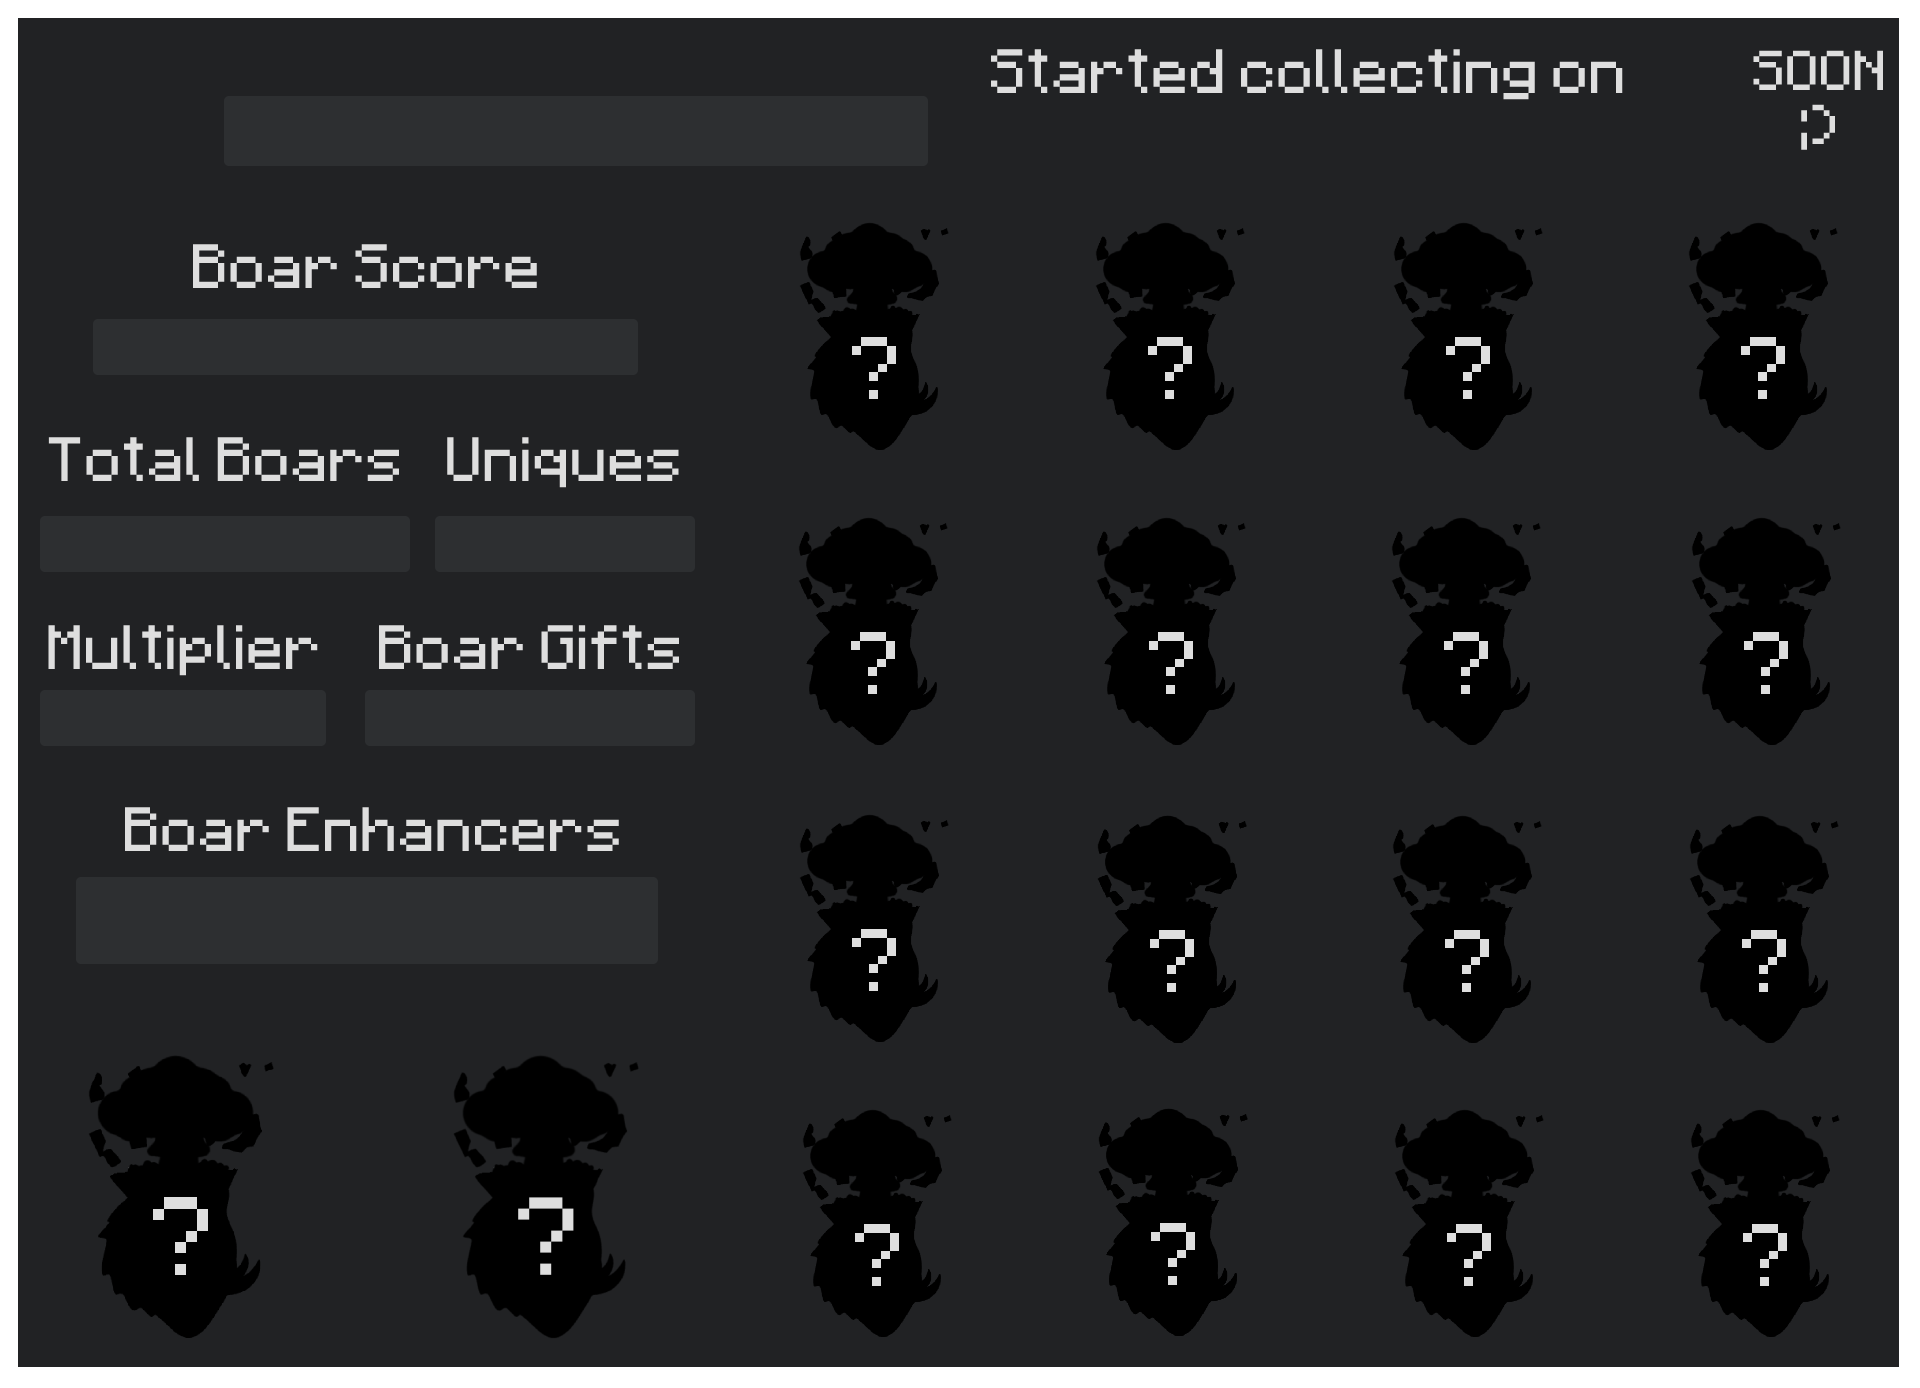
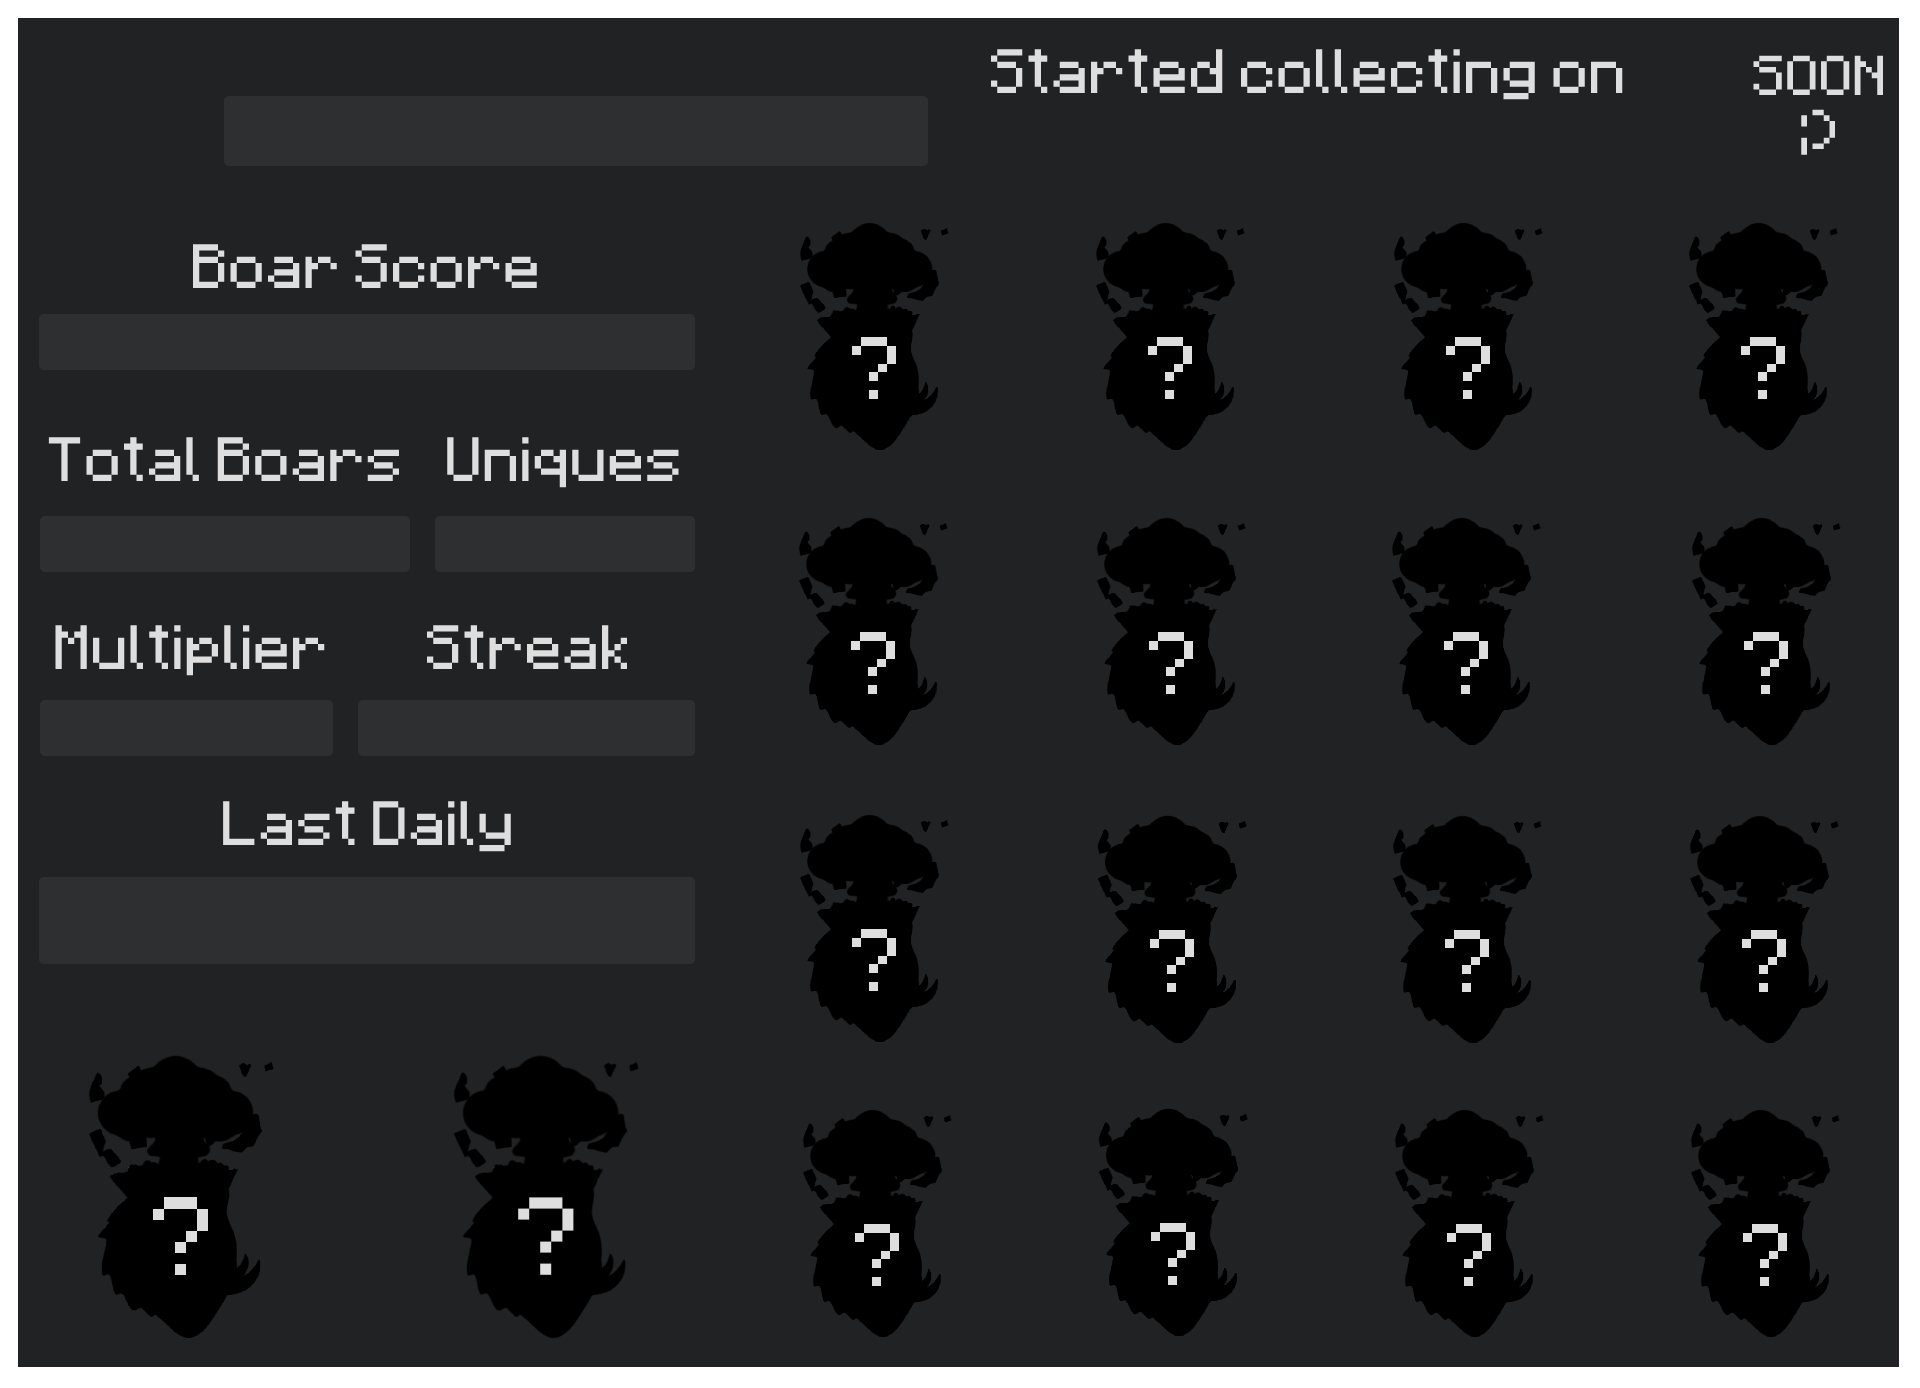
More button foundation, changed base collection image

diff --git a/src/commands/collection.ts b/src/commands/collection.ts
@@ -23,6 +23,7 @@ import {handleError, sendDebug} from '../supporting_files/LogDebug';
 import {getConfigFile} from '../supporting_files/DataHandlers';
 import {drawImageCompact, drawRect, drawText} from '../supporting_files/CanvasFunctions';
 import {finishImage} from '../supporting_files/command_specific/CollectionFunctions';
+import moment from 'moment';
 
 //***************************************
 
@@ -80,7 +81,8 @@ async function execute(interaction: ChatInputCommandInteraction) {
             const userTotal = boarUser.totalBoars;
             const userUniques = Object.keys(boarUser.boarCollection).length;
             const userMultiplier = boarUser.powerups.multiplier;
-            const userGifts = boarUser.powerups.gifts;
+            const userStreak = boarUser.boarStreak;
+            const userLastDaily = boarUser.lastDaily;
             const userAvatar = userInput.displayAvatarURL({ extension: 'png' });
             const userTag = userInput.username.substring(0, generalNums.usernameLength) + '#' +
                 userInput.discriminator;
@@ -123,7 +125,7 @@ async function execute(interaction: ChatInputCommandInteraction) {
             // Aliases for information stored in config
             const maxScore = nums.maxScore;
             const maxBoars = nums.maxBoars;
-            const maxGifts = nums.maxGifts;
+            const maxStreak = nums.maxStreak;
             const maxMultiplier = 1 / config.raritiesInfo[rarities[rarities.length - 1]].probability;
             let maxUniques = Object.keys(config.boarIDs).length;
 
@@ -133,6 +135,7 @@ async function execute(interaction: ChatInputCommandInteraction) {
 
             // Font info
             const fontName = configStrings.general.fontName;
+            const bigFont = `${generalNums.fontSizes.big}px ${fontName}`;
             const mediumFont = `${generalNums.fontSizes.medium}px ${fontName}`;
             const smallFont = `${generalNums.fontSizes.small_medium}px ${fontName}`;
 
@@ -149,9 +152,10 @@ async function execute(interaction: ChatInputCommandInteraction) {
             const multiString = userMultiplier <= maxMultiplier
                 ? `${userMultiplier.toFixed(2)}x`
                 : `${maxMultiplier.toFixed(2)}x`;
-            const giftString = userGifts <= maxGifts
-                ? userGifts.toLocaleString()
-                : `${maxGifts.toLocaleString()}+`;
+            const streakString = userStreak <= maxStreak
+                ? userStreak.toLocaleString()
+                : `${maxStreak.toLocaleString()}+`;
+            const lastDailyString = moment(userLastDaily).fromNow();
 
             // Gets the day a user first started using the bot
             let firstDate: string;
@@ -165,43 +169,44 @@ async function execute(interaction: ChatInputCommandInteraction) {
             currentBoarArray = boarArray.slice(0, boarsPerPage);
 
             // Creating image
-            const canvas = Canvas.createCanvas(imageSize[0], imageSize[1]);
-            const ctx = canvas.getContext('2d');
+            const mainCanvas = Canvas.createCanvas(imageSize[0], imageSize[1]);
+            const mainCtx = mainCanvas.getContext('2d');
 
             // Draws underlay
-            drawImageCompact(ctx, await Canvas.loadImage(collectionUnderlay), origin, imageSize);
+            drawImageCompact(mainCtx, await Canvas.loadImage(collectionUnderlay), origin, imageSize);
 
             // Draws top bar information
-            drawImageCompact(ctx, await Canvas.loadImage(userAvatar), nums.userAvatarPos, nums.userAvatarSize);
-            drawText(ctx, userTag, nums.userTagPos, mediumFont, 'left', hexColors.font);
-            drawText(ctx, firstDate, nums.datePos, mediumFont, 'left', hexColors.font);
+            drawImageCompact(mainCtx, await Canvas.loadImage(userAvatar), nums.userAvatarPos, nums.userAvatarSize);
+            drawText(mainCtx, userTag, nums.userTagPos, mediumFont, 'left', hexColors.font);
+            drawText(mainCtx, firstDate, nums.datePos, mediumFont, 'left', hexColors.font);
 
             // Draws badge information
             if (boarUser.badges.length === 0)
-                drawText(ctx, collectionStrings.noBadges, nums.noBadgePos, mediumFont, 'left', hexColors.font);
+                drawText(mainCtx, collectionStrings.noBadges, nums.noBadgePos, mediumFont, 'left', hexColors.font);
 
             for (let i=0; i<boarUser.badges.length; i++) {
                 const badgesFolder = configAssets.badges;
                 const badgeXY = [nums.badgeStart + i * nums.badgeSpacing, nums.badgeY];
                 const badgeFile = badgesFolder + config.badgeIDs[boarUser.badges[i]].file;
 
-                drawImageCompact(ctx, await Canvas.loadImage(badgeFile), badgeXY, nums.badgeSize);
+                drawImageCompact(mainCtx, await Canvas.loadImage(badgeFile), badgeXY, nums.badgeSize);
             }
 
             // Draws stats information
-            drawText(ctx, scoreString, nums.scorePos, smallFont, 'center', hexColors.font);
-            drawText(ctx, totalString, nums.totalPos, smallFont, 'center', hexColors.font);
-            drawText(ctx, uniqueString, nums.uniquePos, smallFont, 'center', hexColors.font);
-            drawText(ctx, multiString, nums.multiPos, smallFont, 'center', hexColors.font);
-            drawText(ctx, giftString, nums.giftPos, smallFont, 'center', hexColors.font);
+            drawText(mainCtx, scoreString, nums.scorePos, smallFont, 'center', hexColors.font);
+            drawText(mainCtx, totalString, nums.totalPos, smallFont, 'center', hexColors.font);
+            drawText(mainCtx, uniqueString, nums.uniquePos, smallFont, 'center', hexColors.font);
+            drawText(mainCtx, multiString, nums.multiPos, smallFont, 'center', hexColors.font);
+            drawText(mainCtx, streakString, nums.streakPos, smallFont, 'center', hexColors.font);
+            drawText(mainCtx, lastDailyString, nums.lastDailyPos, bigFont, 'center', hexColors.font);
 
             // Draws last boar gotten and rarity
             if (boarUser.lastBoar !== '') {
                 const lastBoarDetails = config.boarIDs[boarUser.lastBoar];
                 const boarFile = boarsFolder + lastBoarDetails.file
 
-                drawImageCompact(ctx, await Canvas.loadImage(boarFile), nums.lastBoarPos, nums.lastBoarSize);
-                drawRect(ctx, nums.lastRarityPos, nums.lastRaritySize, hexColors[lastBoarRarity]);
+                drawImageCompact(mainCtx, await Canvas.loadImage(boarFile), nums.lastBoarPos, nums.lastBoarSize);
+                drawRect(mainCtx, nums.lastRarityPos, nums.lastRaritySize, hexColors[lastBoarRarity]);
             }
 
             // Draws favorite boar and rarity
@@ -209,48 +214,63 @@ async function execute(interaction: ChatInputCommandInteraction) {
                 const favoriteBoarDetails = config.boarIDs[boarUser.favoriteBoar];
                 const boarFile = boarsFolder + favoriteBoarDetails.file
 
-                drawImageCompact(ctx, await Canvas.loadImage(boarFile), nums.favBoarPos, nums.favBoarSize);
-                drawRect(ctx, nums.favRarityPos, nums.favRaritySize, hexColors[favoriteBoarRarity]);
+                drawImageCompact(mainCtx, await Canvas.loadImage(boarFile), nums.favBoarPos, nums.favBoarSize);
+                drawRect(mainCtx, nums.favRarityPos, nums.favRaritySize, hexColors[favoriteBoarRarity]);
             }
 
-            // Draws boar enhancers
-            for (let i=0; i<nums.enhancerCols; i++) {
-                const enhancerPos = [
-                    nums.enhancerStartX + i % nums.enhancerCols * nums.enhancerSpacingX, nums.enhancerStartY
-                ];
-
-                let enhancerFile = collectionFolder + collectionAssets.enhancerOff;
-                if (i < boarUser.powerups.enhancers)
-                    enhancerFile = collectionFolder + collectionAssets.enhancerOn;
-
-                drawImageCompact(ctx, await Canvas.loadImage(enhancerFile), enhancerPos, nums.enhancerSize);
-            }
-
-            const fastBackButton = new ButtonBuilder()
-                .setCustomId('fast_back')
-                .setEmoji('<:fast_backward:1073082581635059824>')
-                .setStyle(ButtonStyle.Secondary)
-                .setDisabled(true)
+            // Row 1 buttons (Navigation)
             const backButton = new ButtonBuilder()
                 .setCustomId('back')
                 .setEmoji('<:back:1073072529507369072>')
                 .setStyle(ButtonStyle.Secondary)
-                .setDisabled(true)
+                .setDisabled(true);
+            const pageButton = new ButtonBuilder()
+                .setCustomId('page')
+                .setEmoji('📝')
+                .setStyle(ButtonStyle.Secondary)
+                .setDisabled(true);
             const forwardButton = new ButtonBuilder()
                 .setCustomId('forward')
                 .setEmoji('<:forward:1073071982096175184>')
                 .setStyle(ButtonStyle.Secondary)
-                .setDisabled(true)
-            const fastForwardButton = new ButtonBuilder()
-                .setCustomId('fast_forward')
-                .setEmoji('<:fast_forward:1073082583853834340>')
-                .setStyle(ButtonStyle.Secondary)
-                .setDisabled(true)
+                .setDisabled(true);
 
-            const row = new ActionRowBuilder<ButtonBuilder | SelectMenuBuilder>()
-                .setComponents(fastBackButton, backButton, forwardButton, fastForwardButton);
+            // Row 2 buttons (Views)
+            const normalViewButton = new ButtonBuilder()
+                .setCustomId('normal_view')
+                .setLabel('Normal')
+                .setStyle(ButtonStyle.Primary)
+                .setDisabled(true);
+            const detailedViewButton = new ButtonBuilder()
+                .setCustomId('detailed_view')
+                .setLabel('Detailed')
+                .setStyle(ButtonStyle.Primary)
+                .setDisabled(true);
+            const powerupViewButton = new ButtonBuilder()
+                .setCustomId('powerup_view')
+                .setLabel('Powerups')
+                .setStyle(ButtonStyle.Primary)
+                .setDisabled(true);
 
-            await finishImage(config, interaction, canvas, currentBoarArray, [row]);
+            // Row 3 buttons (Specific for each view)
+            const favoriteButton = new ButtonBuilder()
+                .setCustomId('favorite')
+                .setEmoji('🌟')
+                .setStyle(ButtonStyle.Success)
+                .setDisabled(true);
+            const giftButton = new ButtonBuilder()
+                .setCustomId('gift')
+                .setEmoji('🎁')
+                .setStyle(ButtonStyle.Success)
+                .setDisabled(true);
+
+            const row1 = new ActionRowBuilder<ButtonBuilder | SelectMenuBuilder>()
+                .setComponents(backButton, pageButton, forwardButton);
+            const row2 = new ActionRowBuilder<ButtonBuilder | SelectMenuBuilder>()
+                .setComponents(normalViewButton, detailedViewButton, powerupViewButton);
+            const row3 = new ActionRowBuilder<ButtonBuilder | SelectMenuBuilder>();
+
+            await finishImage(config, interaction, mainCanvas, currentBoarArray, [row1, row2]);
 
             let curPage: number = 1;
 
@@ -265,7 +285,7 @@ async function execute(interaction: ChatInputCommandInteraction) {
 
             const collector = interaction.channel.createMessageComponentCollector({
                 filter,
-                idle: 120000
+                idle: 1000 * 60 * 2
             }) as InteractionCollector<ButtonInteraction>;
 
             collector.on('collect', async (inter: ButtonInteraction) => {

diff --git a/src/commands/daily.ts b/src/commands/daily.ts
@@ -51,13 +51,13 @@ async function execute(interaction: ChatInputCommandInteraction) {
 
             // Midnight of next day
             const nextBoarTime = Math.floor(
-                new Date().setUTCHours(24,0,0,0) / 1000
+                new Date().setUTCHours(24,0,0,0)
             );
 
             // Returns if user has already used their daily boar
-            if (boarUser.lastDaily >= nextBoarTime - 86400 && !config.unlimitedBoars) {
+            if (boarUser.lastDaily >= nextBoarTime - (1000 * 60 * 60 * 24) && !config.unlimitedBoars) {
                 await interaction.editReply(dailyStrings.usedDaily + generalStrings.formattedTime
-                    .replace('%@', nextBoarTime)
+                    .replace('%@', nextBoarTime / 1000)
                 );
                 return;
             }
@@ -78,7 +78,7 @@ async function execute(interaction: ChatInputCommandInteraction) {
                 probabilities.push(rarityProbability)
             }
 
-            boarUser.lastDaily = Math.round(Date.now() / 1000);
+            boarUser.lastDaily = Date.now();
 
             applyMultiplier(userMultiplier, probabilities);
             boarUser.powerups.multiplier = 1;

diff --git a/index.ts b/index.ts
@@ -14,6 +14,7 @@ import {GatewayIntentBits, Partials} from 'discord.js';
 import {CustomClient} from './src/supporting_files/CustomClient';
 import {registerFont} from 'canvas';
 import {getConfigFile} from './src/supporting_files/DataHandlers';
+import moment from 'moment';
 
 dotenv.config();
 
@@ -38,6 +39,32 @@ const config = getConfigFile();
 
 const minecraftFont = config.paths.assets.other.basePath + config.paths.assets.other.font;
 registerFont(minecraftFont, { family: config.strings.general.fontName });
+
+moment.relativeTimeThreshold('s', 60);
+moment.relativeTimeThreshold('ss', 1);
+moment.relativeTimeThreshold('m', 60);
+moment.relativeTimeThreshold('h', 24);
+moment.relativeTimeThreshold('d', 30.437);
+moment.relativeTimeThreshold('M', 12);
+
+moment.updateLocale('en', {
+	relativeTime : {
+		future: "in %s",
+		past:   "%s ago",
+		s  : '%d second',
+		ss : '%d seconds',
+		m:  "%d minute",
+		mm: "%d minutes",
+		h:  "%d hour",
+		hh: "%d hours",
+		d:  "%d day",
+		dd: "%d days",
+		M:  "%d month",
+		MM: "%d months",
+		y:  "%d year",
+		yy: "%d years"
+	}
+});
 
 // Registers list of subcommands
 const commandList = require(config.paths.commandList);

diff --git a/src/supporting_files/BoarUser.ts b/src/supporting_files/BoarUser.ts
@@ -232,19 +232,19 @@ export class BoarUser {
 
         // Updating user data
         if (!wasGiven && this.firstDaily === 0)
-            this.firstDaily = Math.round(Date.now() / 1000);
+            this.firstDaily = Date.now();
 
         if (!this.boarCollection[boarID]) {
             this.boarCollection[boarID] = config.emptyBoar;
-            this.boarCollection[boarID].firstObtained = Math.round(Date.now() / 1000);
+            this.boarCollection[boarID].firstObtained = Date.now();
         }
 
         this.boarCollection[boarID].num++;
-        this.boarCollection[boarID].lastObtained = Math.round(Date.now() / 1000);
+        this.boarCollection[boarID].lastObtained = Date.now();
 
         if (boarEdition <= trackedEditions || !rarityInfo.fromDaily) {
             this.boarCollection[boarID].editions.push(boarEdition);
-            this.boarCollection[boarID].editionDates.push(Math.round(Date.now() / 1000));
+            this.boarCollection[boarID].editionDates.push(Date.now());
         }
 
         this.lastBoar = boarID;

diff --git a/src/supporting_files/LogDebug.ts b/src/supporting_files/LogDebug.ts
@@ -71,7 +71,7 @@ async function handleError(err: unknown | string, interaction?: ChatInputCommand
             await interaction.editReply({
                 embeds: [errorEmbed.setTitle(errResponse)]
             });
-        } else {
+        } else if (Date.now() - interaction.createdTimestamp < 3000) {
             await interaction.reply({
                 embeds: [errorEmbed.setTitle(errResponse)],
                 ephemeral: true
